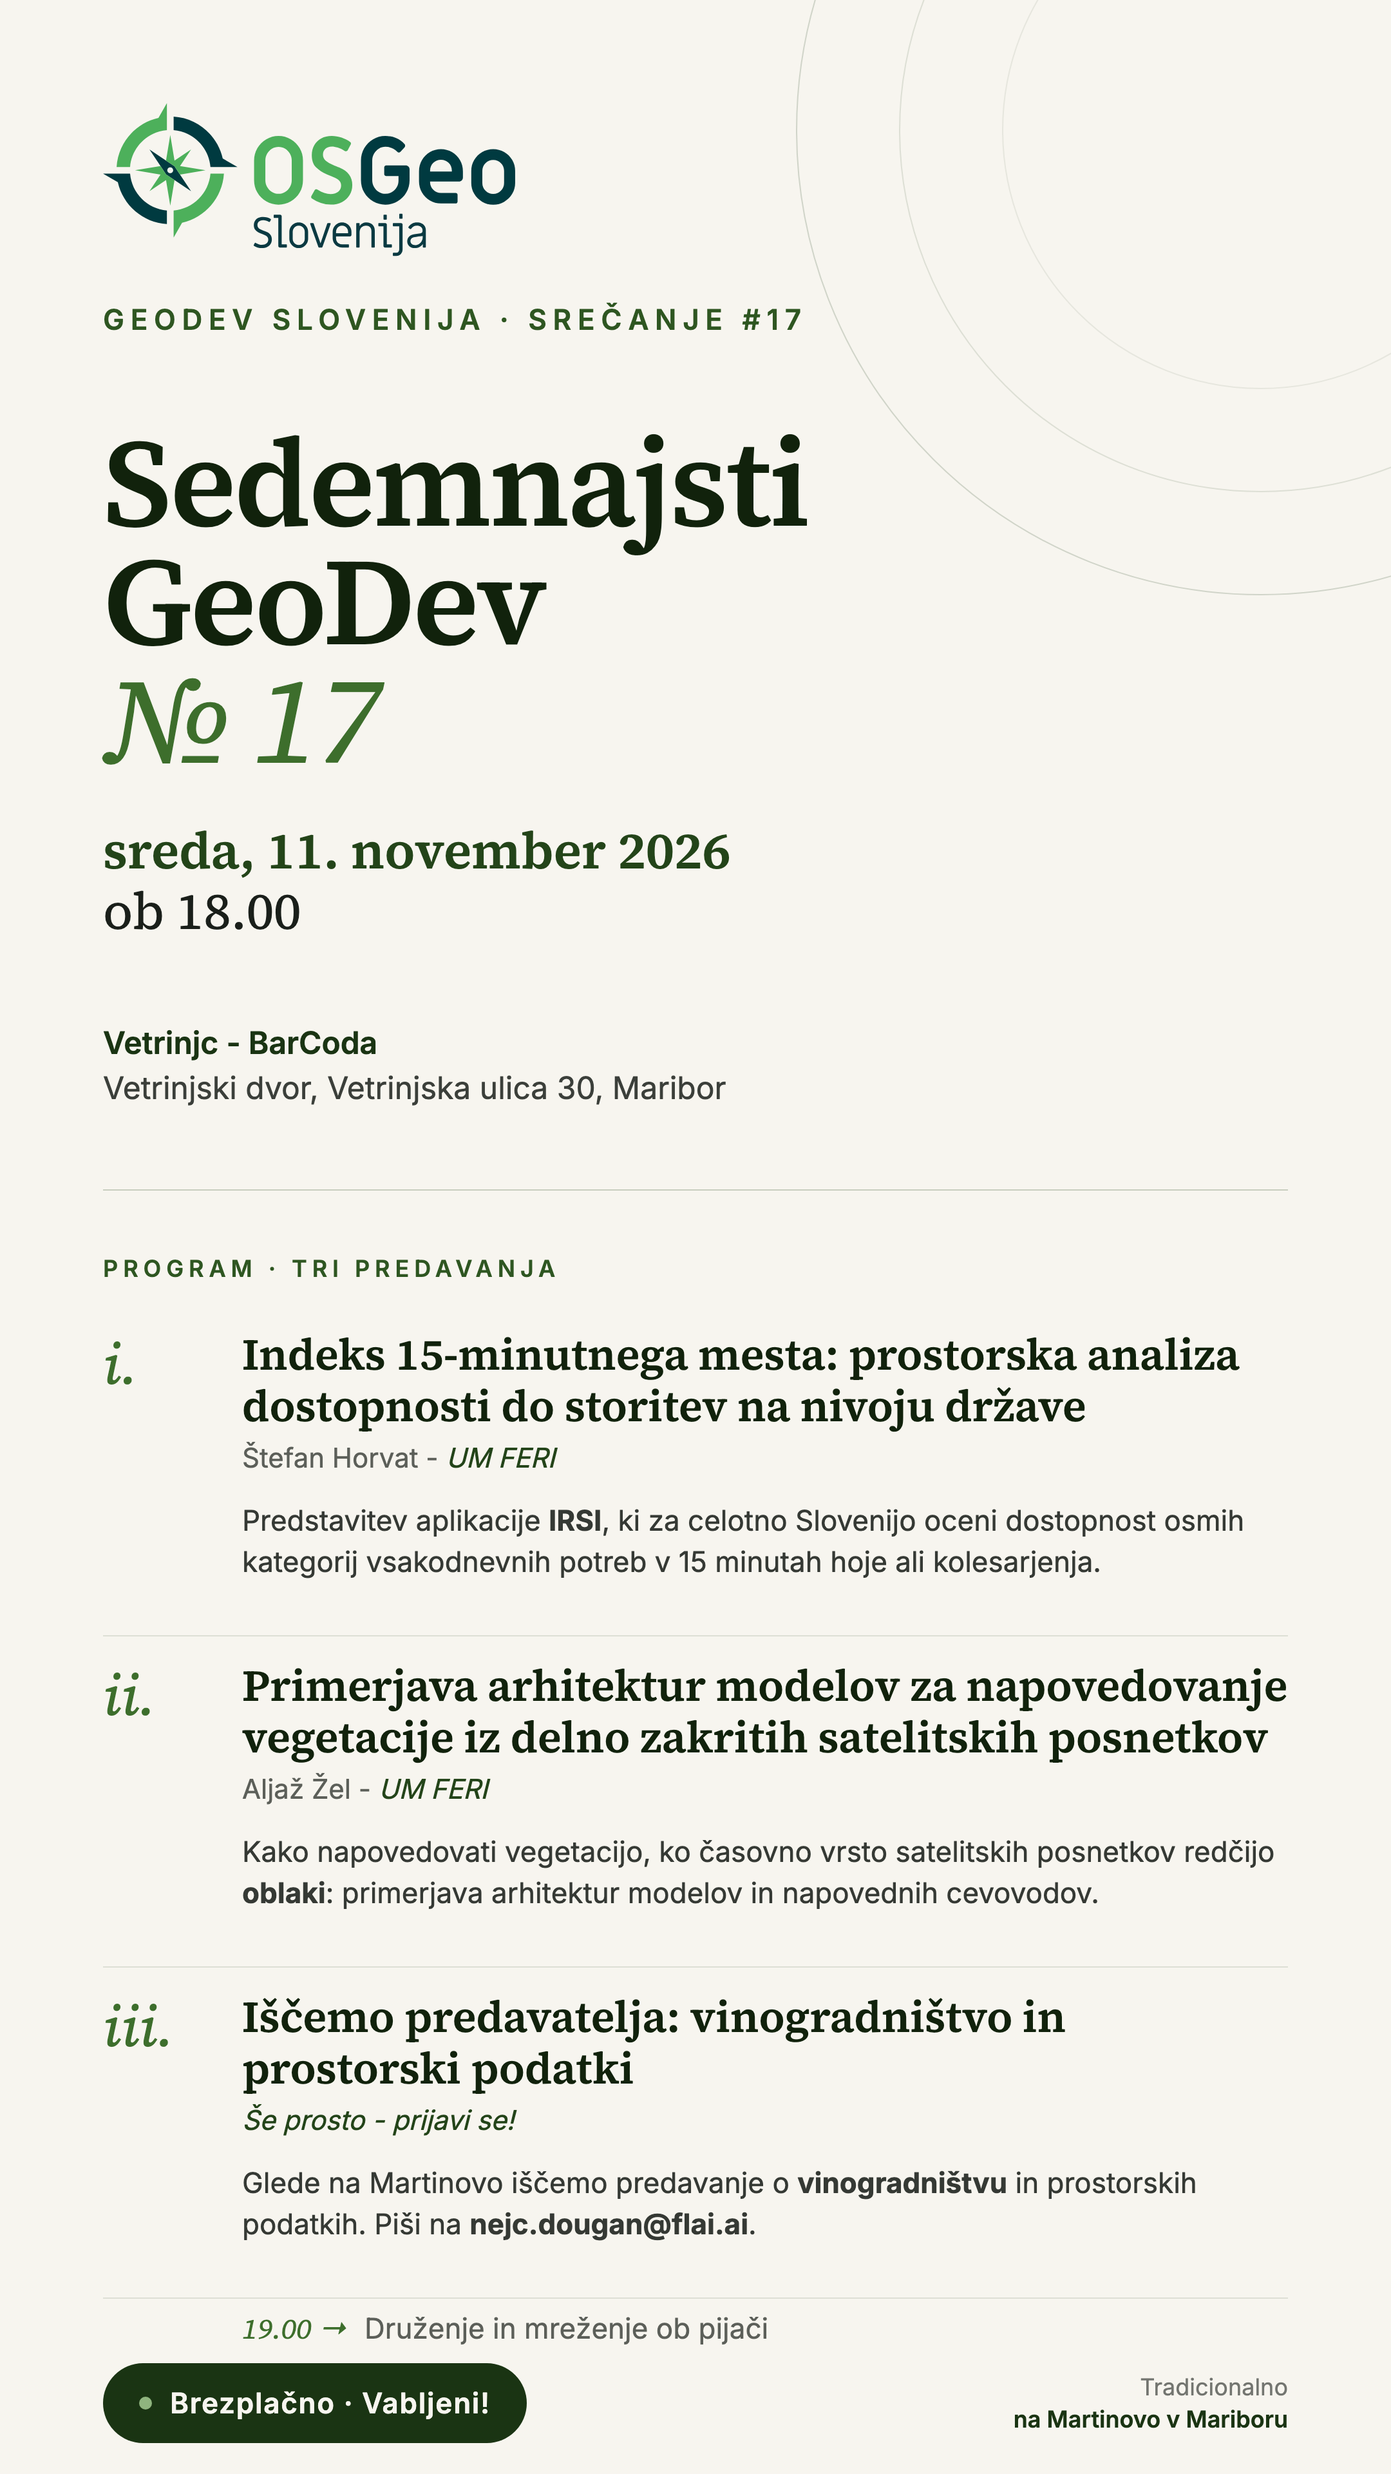
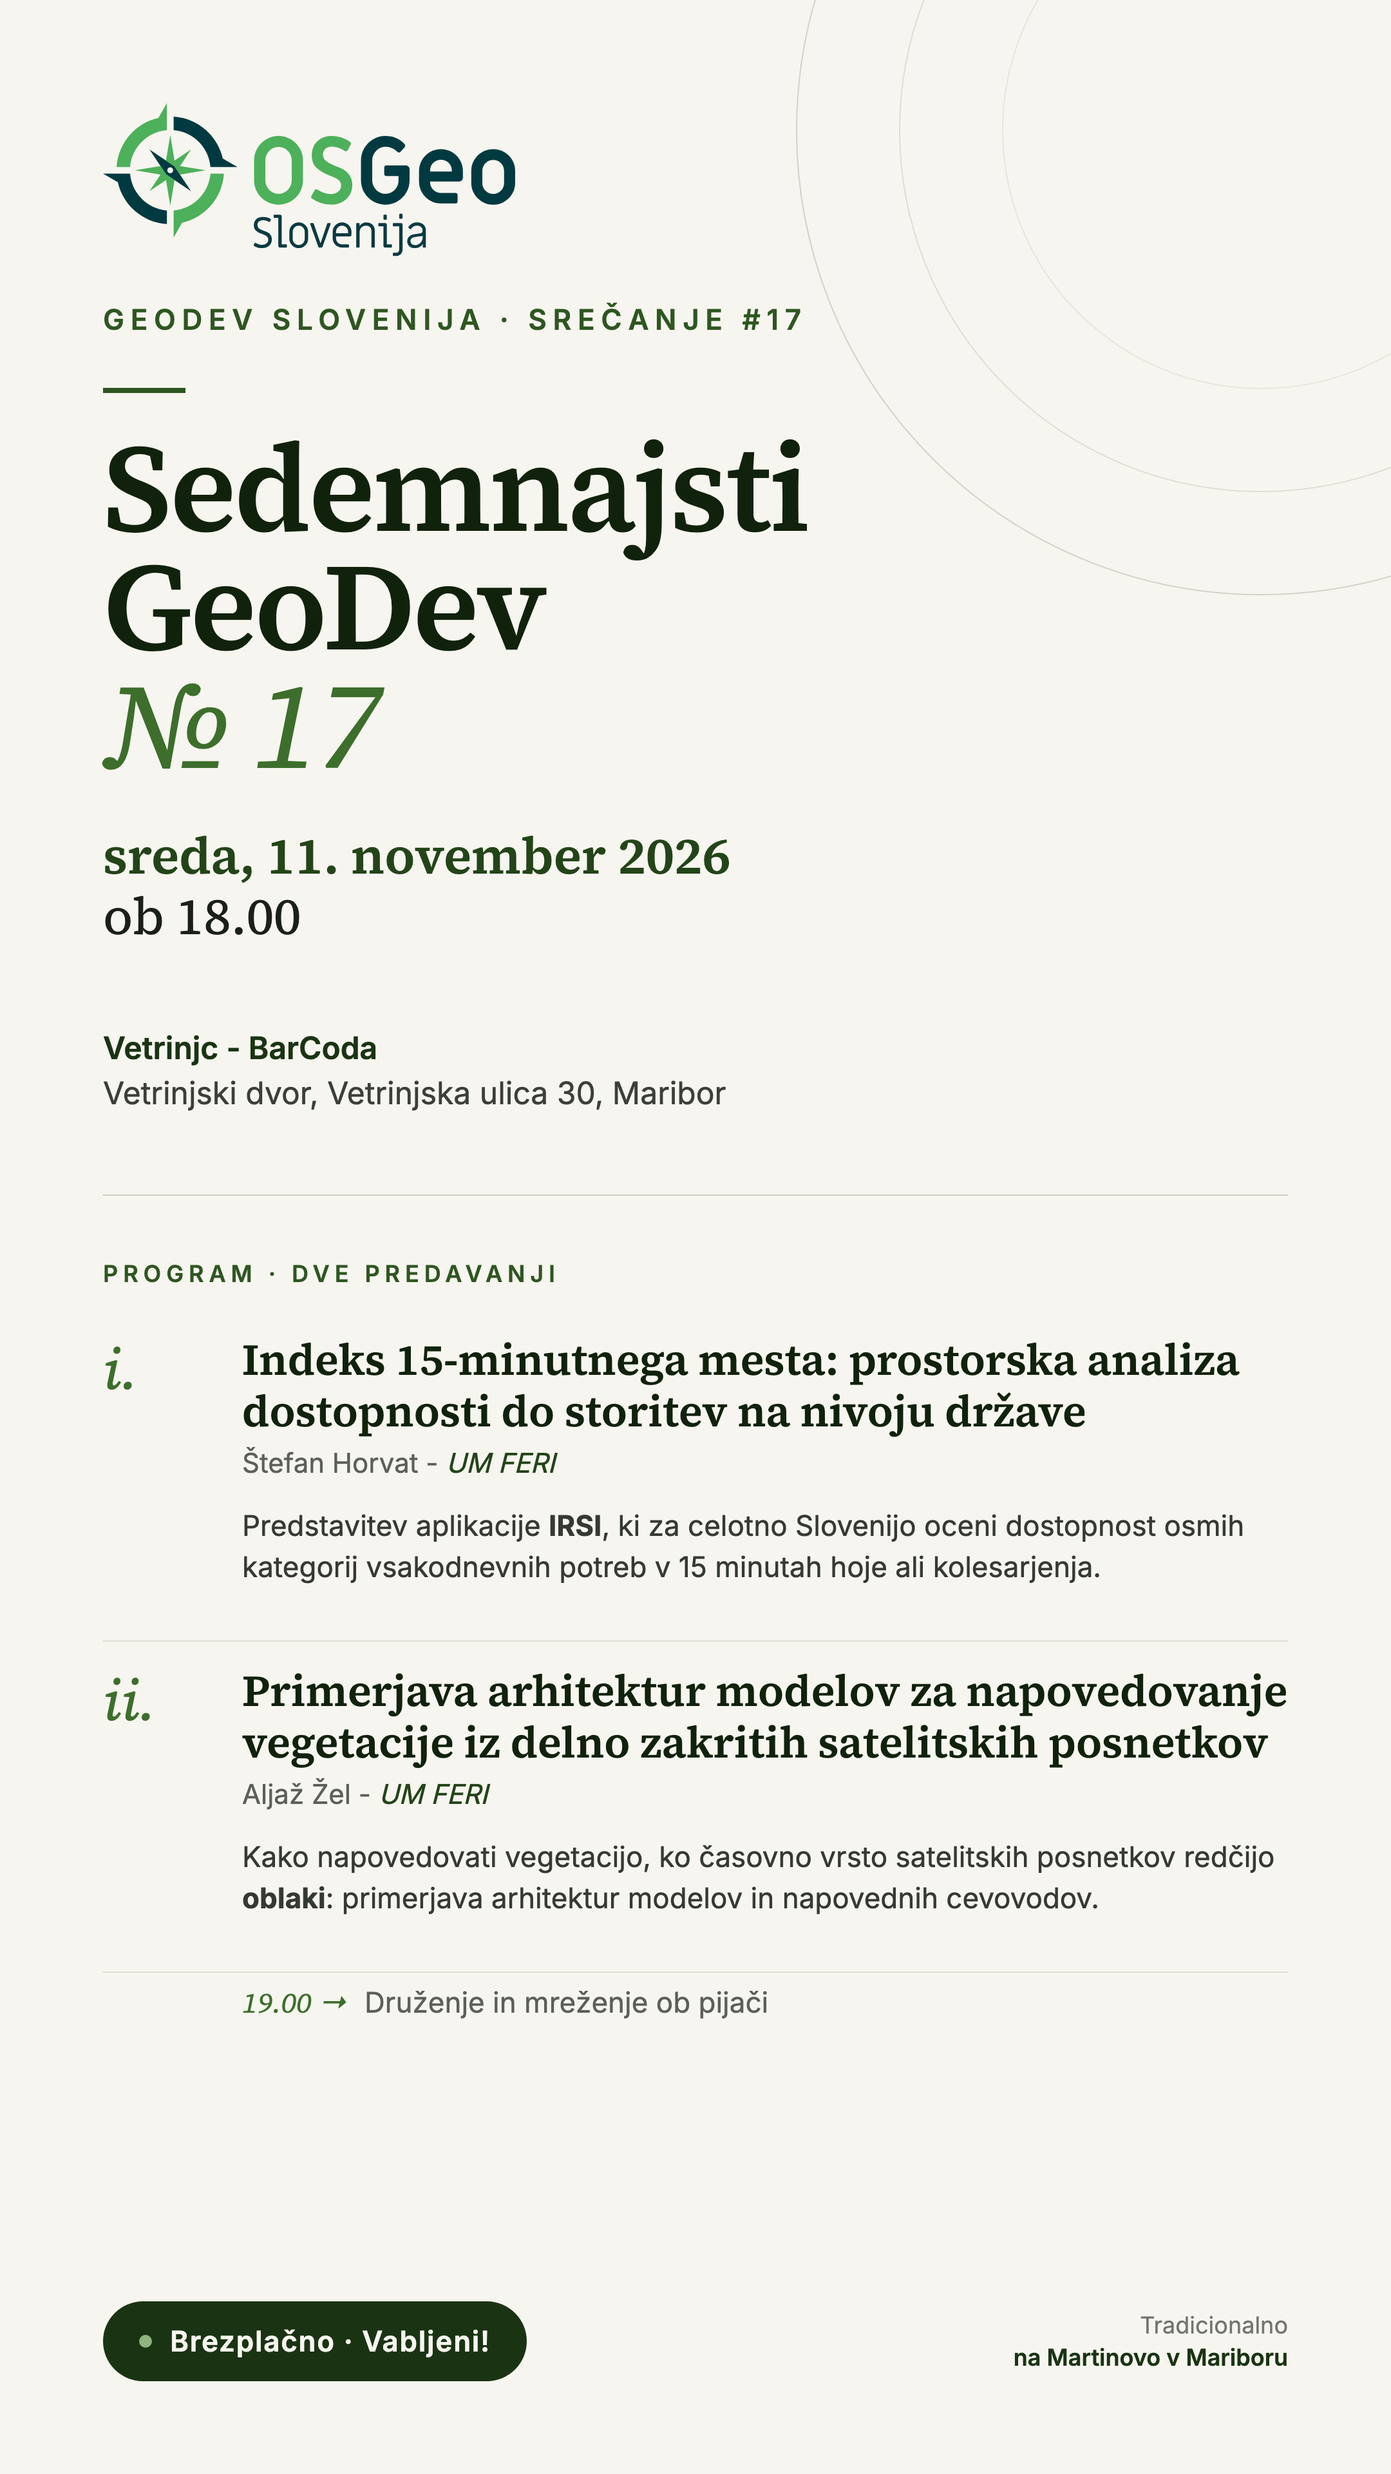
GeoDev 17: drop third talk, Aljaž moved to 18:30

diff --git a/2026-17-meetup/banner-landscape.html b/2026-17-meetup/banner-landscape.html
@@ -275,8 +275,7 @@
   <!-- RIGHT -->
   <div class="right">
     <p class="program-label">Program</p>
-    <h2>Tri predavanja</h2>
-    <p class="sub">vsako 15 min + 5 min Q&amp;A</p>
+    <h2>Dve predavanji</h2>
 
     <div class="talk-list">
       <div class="talk">
@@ -289,7 +288,7 @@
       </div>
 
       <div class="talk">
-        <div class="time">18.20</div>
+        <div class="time">18.30</div>
         <div>
           <p class="title">Primerjava arhitektur modelov za napovedovanje vegetacije iz delno zakritih satelitskih posnetkov</p>
           <p class="who">Aljaž Žel - <em>UM FERI</em></p>
@@ -297,14 +296,6 @@
         </div>
       </div>
 
-      <div class="talk">
-        <div class="time">18.40</div>
-        <div>
-          <p class="title">Iščemo predavatelja: vinogradništvo in prostorski podatki</p>
-          <p class="who"><em>Še prosto - prijavi se!</em></p>
-          <p class="lede">Glede na Martinovo iščemo predavanje, ki poveže <strong>vinogradništvo</strong> s prostorskimi podatki in analizami. Imaš kaj povedati? Piši na <strong>nejc.dougan@flai.ai</strong>.</p>
-        </div>
-      </div>
     </div>
 
     <p class="mingle">

diff --git a/2026-17-meetup/banner-story.html b/2026-17-meetup/banner-story.html
@@ -250,7 +250,7 @@
   </p>
 
   <div class="program">
-    <p class="program-label">Program · tri predavanja</p>
+    <p class="program-label">Program · dve predavanji</p>
 
     <div class="talk">
       <div class="idx">i.</div>
@@ -270,14 +270,6 @@
       </div>
     </div>
 
-    <div class="talk">
-      <div class="idx">iii.</div>
-      <div class="body">
-        <p class="title">Iščemo predavatelja: vinogradništvo in prostorski podatki</p>
-        <p class="who"><em>Še prosto - prijavi se!</em></p>
-        <p class="lede">Glede na Martinovo iščemo predavanje o <strong>vinogradništvu</strong> in prostorskih podatkih. Piši na <strong>nejc.dougan@flai.ai</strong>.</p>
-      </div>
-    </div>
 
     <p class="mingle"><span class="t">19.00 →</span> Druženje in mreženje ob pijači</p>
   </div>

diff --git a/2026-17-meetup/najava.md b/2026-17-meetup/najava.md
@@ -13,7 +13,7 @@ Besedila za napoved sedemnajstega GeoDev srečanja na različnih kanalih.
 
 ---
 
-🍇 **GeoDev Slovenija #17** se tradicionalno vrača **na Martinovo v Maribor**! Potrjeni sta dve predavanji, za tretje pa še iščemo predavatelja, ki bi povezal **vinogradništvo** ter **prostorske podatke in analize**.
+🍇 **GeoDev Slovenija #17** se tradicionalno vrača **na Martinovo v Maribor**! Na sporedu sta dve predavanji kolegov z UM FERI: dostopnost storitev po vsej Sloveniji in napovedovanje vegetacije iz oblačnih satelitskih posnetkov.
 
 📍 Vetrinjc - BarCoda, Vetrinjski dvor, Vetrinjska ulica 30, Maribor
 📅 sreda, 11. november 2026
@@ -27,19 +27,16 @@ Predstavitev IRSI, spletne aplikacije, ki za celotno Slovenijo oceni dostopnost 
 → **Primerjava arhitektur modelov za napovedovanje vegetacije iz delno zakritih satelitskih posnetkov** · *Aljaž Žel, UM FERI*
 Kako napovedovati vegetacijo, ko časovno vrsto satelitskih posnetkov redčijo oblaki: primerjava arhitektur modelov in napovednih cevovodov.
 
-→ **Iščemo predavatelja: vinogradništvo in prostorski podatki**
-Imaš projekt, analizo ali orodje, ki povezuje vinograde in prostorske podatke? Piši na nejc.dougan@flai.ai.
-
 Dogodek je **brezplačen** in odprt vsem - od navdušencev do GIS profesionalcev. Omejeno število mest, zato priporočamo prijavo: https://osgeo.si/#/dogodki/geodev-17 🦝
 
-#GeoDev #OSGeo #Slovenija #GIS #Maribor #Martinovo #RemoteSensing #MachineLearning #Vinogradništvo #Geospatial #OpenSource
+#GeoDev #OSGeo #Slovenija #GIS #Maribor #Martinovo #RemoteSensing #MachineLearning #Geospatial #OpenSource
 
 ---
 
 ## 2. Newsletter / e-mail (MailChimp)
 
 > **Subject:** GeoDev #17 - vabljeni na sedemnajsto srečanje 🌍
-> **Preview text:** Na Martinovo v Mariboru: indeks 15-minutnega mesta za vso Slovenijo in napovedovanje vegetacije iz oblačnih satelitskih posnetkov, za tretje predavanje pa iščemo temo, ki poveže vinogradništvo in prostorske podatke.
+> **Preview text:** Na Martinovo v Mariboru: indeks 15-minutnega mesta za vso Slovenijo in napovedovanje vegetacije iz oblačnih satelitskih posnetkov.
 
 ---
 
@@ -54,14 +51,10 @@ GeoDev Meetup Slovenija se tradicionalno seli **na Martinovo v Maribor**. Vabimo
 
 Model 15-minutnega mesta predvideva, da so vsakodnevne potrebe dostopne v kratkem času hoje ali kolesarjenja. Predstavljen bo IRSI (Indeks razvitosti Slovenije), interaktivna spletna aplikacija za vrednotenje dostopnosti storitev na območju celotne Slovenije. Aplikacija ocenjuje dostopnost osmih kategorij vsakodnevnih potreb v 15 minutah hoje ali kolesarjenja na podlagi cestnega omrežja in podatkov o približno 34.500 lokacijah. Predstavljeni bodo metodologija, tehnična zasnova in možnosti uporabe pri prostorskem načrtovanju ter analizi investicijskih priložnosti.
 
-**18.20 - Primerjava arhitektur modelov za napovedovanje vegetacije iz delno zakritih satelitskih posnetkov**
+**18.30 - Primerjava arhitektur modelov za napovedovanje vegetacije iz delno zakritih satelitskih posnetkov**
 *Aljaž Žel, UM FERI*
 
 Kratkoročno napovedovanje vegetacije iz satelitskih posnetkov pogosto ovira oblačnost, zaradi katere je časovna vrsta posnetkov redka in neenakomerno vzorčena. Obstoječi pristopi večinoma predpostavljajo vhodne podatke brez oblakov. V sklopu predstavitve bodo primerjane različne arhitekture modelov in zasnove napovednih cevovodov, pri katerih so manjkajoči podatki najprej zapolnjeni ali pa je napovedovanje izvedeno neposredno na podlagi razpoložljivih opazovanj. Ob tem bo prikazano širše metodološko vprašanje napovedovanja v okoliščinah, ko vsa opazovanja niso na voljo, in kako je pristop mogoče prenesti na druga področja.
-
-**18.40 - Iščemo predavatelja: vinogradništvo in prostorski podatki**
-
-Tretje predavanje je še prosto! Glede na datum dogodka iščemo predavanje, ki bi povezalo **vinogradništvo** ter **prostorske podatke in analize**. Če bi kaj želel povedati, piši na [nejc.dougan@flai.ai](mailto:nejc.dougan@flai.ai).
 
 **19.00 - Druženje in mreženje ob pijači**
 
@@ -91,7 +84,7 @@ P.S.: Imate temo, o kateri bi želeli predavati, ali poznate koga, ki ga je vred
 
 ---
 
-Sedemnajsti **GeoDev Meetup** bo tradicionalno **na Martinovo v Mariboru**. Tri predavanja (vsako 15 minut + 5 minut Q&A), nato druženje ob pijači.
+Sedemnajsti **GeoDev Meetup** bo tradicionalno **na Martinovo v Mariboru**. Dve predavanji, nato druženje ob pijači.
 
 ## 🗓 Program
 
@@ -100,14 +93,10 @@ Sedemnajsti **GeoDev Meetup** bo tradicionalno **na Martinovo v Mariboru**. Tri 
 
 Model 15-minutnega mesta predvideva, da so vsakodnevne potrebe dostopne v kratkem času hoje ali kolesarjenja. Predstavljen bo IRSI (Indeks razvitosti Slovenije), interaktivna spletna aplikacija za vrednotenje dostopnosti storitev na območju celotne Slovenije. Aplikacija ocenjuje dostopnost osmih kategorij vsakodnevnih potreb v 15 minutah hoje ali kolesarjenja na podlagi cestnega omrežja in podatkov o približno 34.500 lokacijah. Predstavljeni bodo metodologija, tehnična zasnova in možnosti uporabe pri prostorskem načrtovanju ter analizi investicijskih priložnosti.
 
-**18.20 · Primerjava arhitektur modelov za napovedovanje vegetacije iz delno zakritih satelitskih posnetkov**
+**18.30 · Primerjava arhitektur modelov za napovedovanje vegetacije iz delno zakritih satelitskih posnetkov**
 *Aljaž Žel, UM FERI*
 
 Kratkoročno napovedovanje vegetacije iz satelitskih posnetkov pogosto ovira oblačnost, zaradi katere je časovna vrsta posnetkov redka in neenakomerno vzorčena. Obstoječi pristopi večinoma predpostavljajo vhodne podatke brez oblakov. V sklopu predstavitve bodo primerjane različne arhitekture modelov in zasnove napovednih cevovodov, pri katerih so manjkajoči podatki najprej zapolnjeni ali pa je napovedovanje izvedeno neposredno na podlagi razpoložljivih opazovanj. Ob tem bo prikazano širše metodološko vprašanje napovedovanja v okoliščinah, ko vsa opazovanja niso na voljo, in kako je pristop mogoče prenesti na druga področja.
-
-**18.40 · Iščemo predavatelja: vinogradništvo in prostorski podatki**
-
-Tretje predavanje je še prosto! Glede na datum dogodka iščemo predavanje, ki bi povezalo **vinogradništvo** ter **prostorske podatke in analize**. Če bi kaj želel povedati, piši na [nejc.dougan@flai.ai](mailto:nejc.dougan@flai.ai).
 
 **19.00 · Druženje in mreženje ob pijači**
 
@@ -129,10 +118,9 @@ Dogodek je **brezplačen** in odprt vsem - od navdušencev do GIS profesionalcev
 
 🍇 **GeoDev Slovenija #17** - sreda, 11. november 2026, 18.00, Vetrinjc - BarCoda, Maribor. Tradicionalno na Martinovo!
 
-Tri predavanja:
+Dve predavanji:
 • **Indeks 15-minutnega mesta: prostorska analiza dostopnosti do storitev na nivoju države** (Štefan Horvat, UM FERI)
 • **Primerjava arhitektur modelov za napovedovanje vegetacije iz delno zakritih satelitskih posnetkov** (Aljaž Žel, UM FERI)
-• **Iščemo predavatelja!** Imaš kaj povedati o vinogradništvu in prostorskih podatkih? Piši na nejc.dougan@flai.ai
 
 Omejeno število mest. Več o programu in prijava → {{LUMA_URL}}
 
@@ -144,7 +132,7 @@ Omejeno število mest. Več o programu in prijava → {{LUMA_URL}}
 
 ---
 
-🍇 GeoDev #17 - na Martinovo, 11. nov 2026, 18.00 v Vetrinjcu, Maribor. 15-minutno mesto (Š. Horvat) · vegetacija iz oblačnih satelitskih posnetkov (A. Žel), za tretje predavanje iščemo temo o vinogradništvu. Brezplačno, prijava: {{LUMA_URL}} #GeoDev #OSGeo #GIS
+🍇 GeoDev #17 - na Martinovo, 11. nov 2026, 18.00 v Vetrinjcu, Maribor. 15-minutno mesto (Š. Horvat) · vegetacija iz oblačnih satelitskih posnetkov (A. Žel). Brezplačno, prijava: {{LUMA_URL}} #GeoDev #OSGeo #GIS
 
 ---
 
@@ -154,4 +142,4 @@ Omejeno število mest. Več o programu in prijava → {{LUMA_URL}}
 
 ---
 
-**GeoDev Meetup #17** poteka tradicionalno na Martinovo, v sredo, **11. novembra 2026, ob 18.00** v Vetrinjcu - BarCodi (Vetrinjski dvor) v Mariboru. Štefan Horvat (UM FERI) bo predstavil indeks 15-minutnega mesta, prostorsko analizo dostopnosti do storitev na nivoju države, Aljaž Žel (UM FERI) pa primerjavo arhitektur modelov za napovedovanje vegetacije iz delno zakritih satelitskih posnetkov. Za tretje predavanje še iščemo predavatelja: glede na datum bi radi slišali predavanje, ki poveže vinogradništvo ter prostorske podatke in analize. Če bi kaj želel povedati, piši na [nejc.dougan@flai.ai](mailto:nejc.dougan@flai.ai). Dogodek je brezplačen, prijava prek [Luma]({{LUMA_URL}}).
+**GeoDev Meetup #17** poteka tradicionalno na Martinovo, v sredo, **11. novembra 2026, ob 18.00** v Vetrinjcu - BarCodi (Vetrinjski dvor) v Mariboru. Štefan Horvat (UM FERI) bo predstavil indeks 15-minutnega mesta, prostorsko analizo dostopnosti do storitev na nivoju države, Aljaž Žel (UM FERI) pa primerjavo arhitektur modelov za napovedovanje vegetacije iz delno zakritih satelitskih posnetkov. Dogodek je brezplačen, prijava prek [Luma]({{LUMA_URL}}).

diff --git a/2026-17-meetup/README.md b/2026-17-meetup/README.md
@@ -9,11 +9,11 @@
 
 ## Program
 
-Tokrat že tradicionalno __na Martinovo v Mariboru__, s __tremi predavanji__ (vsako 15 min + 5 min Q&A).
+Tokrat že tradicionalno __na Martinovo v Mariboru__, z __dvema predavanjema__.
 
 
 __Indeks 15-minutnega mesta: prostorska analiza dostopnosti do storitev na nivoju države__
-18:00 - 18:20
+18:00 - 18:30
 Model 15-minutnega mesta predvideva, da so vsakodnevne potrebe dostopne v kratkem času hoje ali kolesarjenja. Predstavljen bo IRSI (Indeks razvitosti Slovenije), interaktivna spletna aplikacija za vrednotenje dostopnosti storitev na območju celotne Slovenije. Aplikacija ocenjuje dostopnost osmih kategorij vsakodnevnih potreb v 15 minutah hoje ali kolesarjenja na podlagi cestnega omrežja in podatkov o približno 34.500 lokacijah. Predstavljeni bodo metodologija, tehnična zasnova in možnosti uporabe pri prostorskem načrtovanju ter analizi investicijskih priložnosti.
 
 Štefan Horvat, Univerza v Mariboru, Fakulteta za elektrotehniko, računalništvo in informatiko (UM FERI)
@@ -21,18 +21,12 @@ Model 15-minutnega mesta predvideva, da so vsakodnevne potrebe dostopne v kratke
 ---
 
 __Primerjava arhitektur modelov za napovedovanje vegetacije iz delno zakritih satelitskih posnetkov__
-18:20 - 18:40
+18:30 - 19:00
 Kratkoročno napovedovanje vegetacije iz satelitskih posnetkov pogosto ovira oblačnost, zaradi katere je časovna vrsta posnetkov redka in neenakomerno vzorčena. Obstoječi pristopi večinoma predpostavljajo vhodne podatke brez oblakov. V sklopu predstavitve bodo primerjane različne arhitekture modelov in zasnove napovednih cevovodov, pri katerih so manjkajoči podatki najprej zapolnjeni ali pa je napovedovanje izvedeno neposredno na podlagi razpoložljivih opazovanj. Ob tem bo prikazano širše metodološko vprašanje napovedovanja v okoliščinah, ko vsa opazovanja niso na voljo, in kako je pristop mogoče prenesti na druga področja.
 
 Aljaž Žel, Univerza v Mariboru, Fakulteta za elektrotehniko, računalništvo in informatiko (UM FERI)
 
 ---
-
-__Iščemo predavatelja: vinogradništvo in prostorski podatki__
-18:40 - 19:00
-Tretje predavanje je še prosto! Glede na datum dogodka iščemo predavanje, ki bi povezalo __vinogradništvo__ ter __prostorske podatke in analize__. Če bi kaj želel povedati, piši na [nejc.dougan@flai.ai](mailto:nejc.dougan@flai.ai).
-
-TBD
 
 
 __Druženje in mreženje ob pijači__
